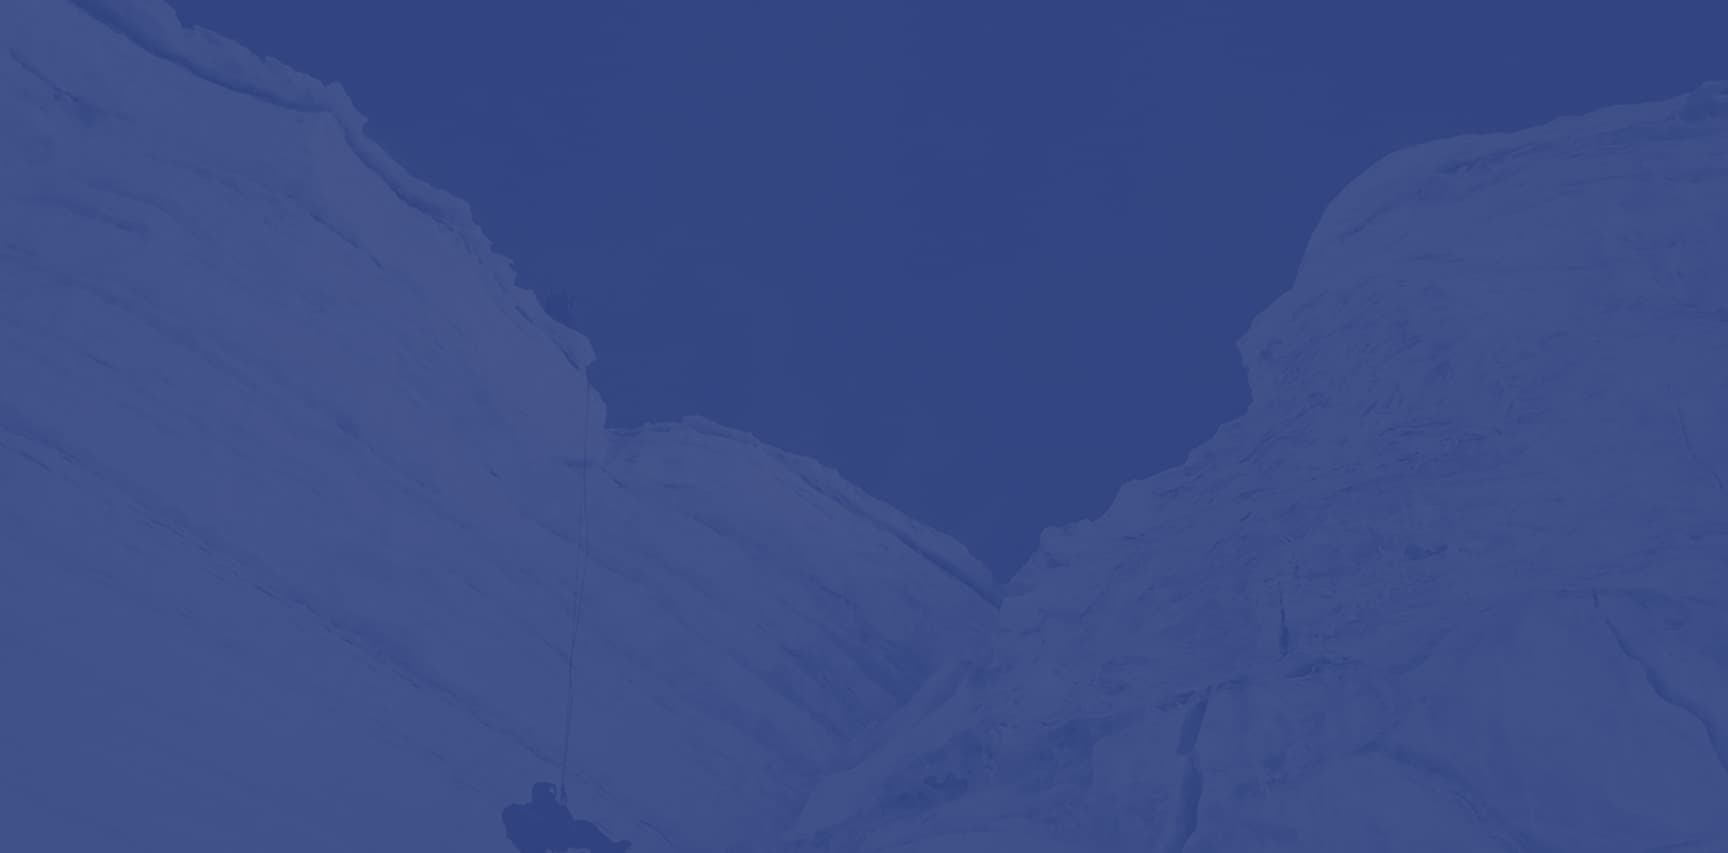
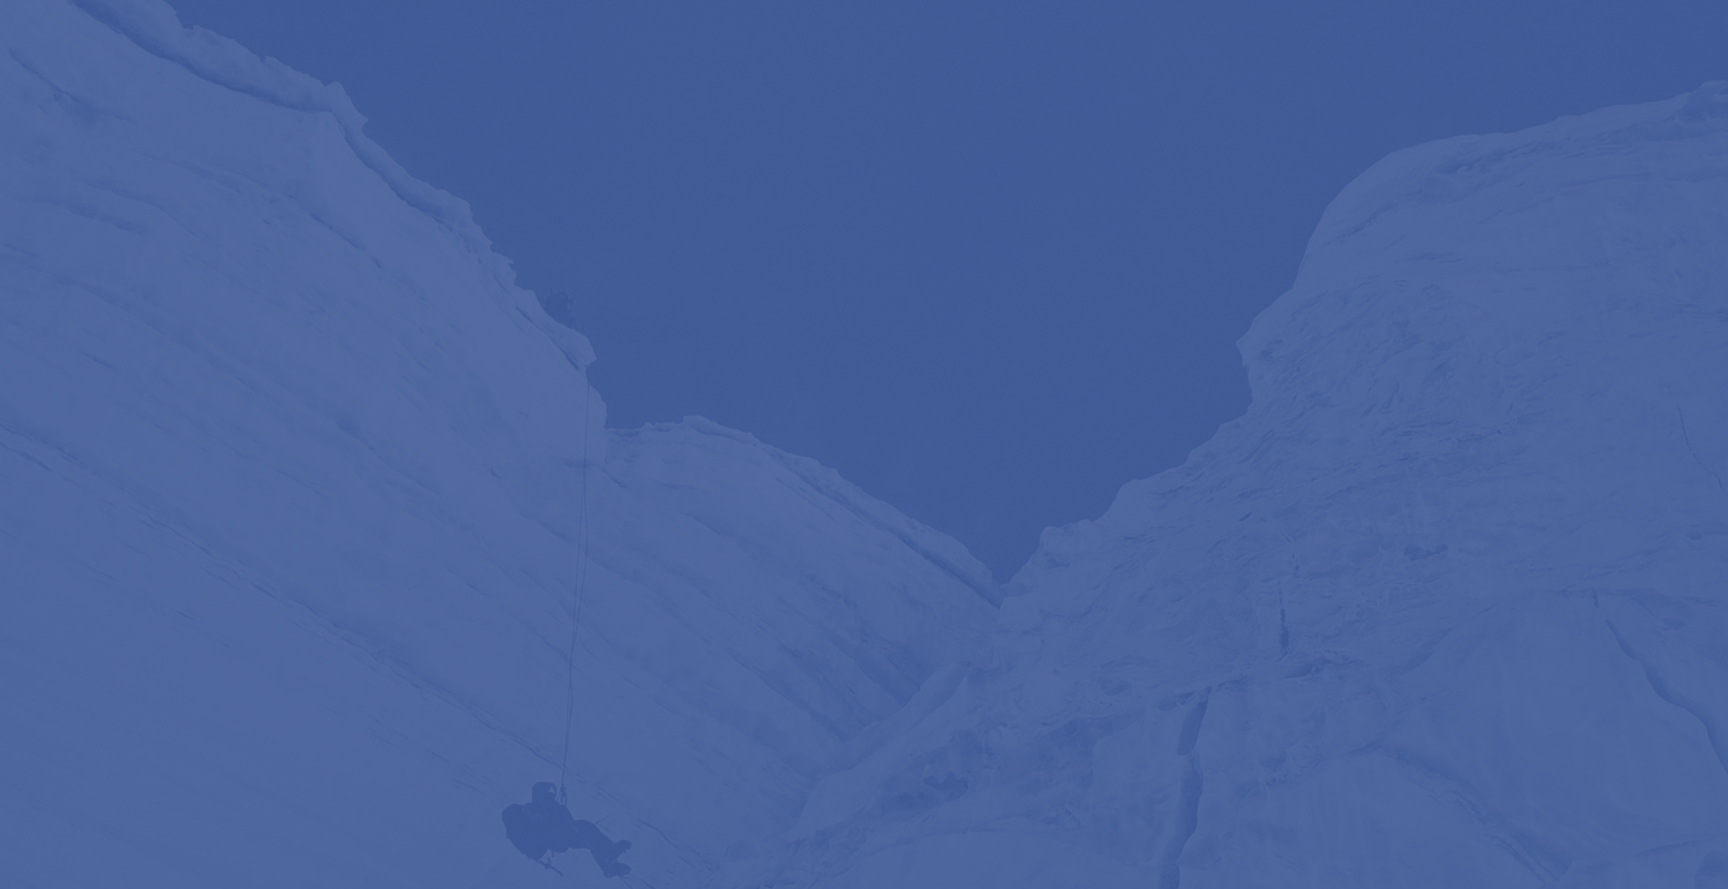
Update footer bg

diff --git a/src/includes/footer/footer.scss b/src/includes/footer/footer.scss
@@ -4,7 +4,7 @@
 	--footer-spacing-2: #{rem(32)};
 	--footer-hover: #{darken($white, 15%)};
 	position: relative;
-	background-color: var(--blue-dark);
+	background-color: var(--blue-light);
 	color: var(--white);
 	background-image: url('../images/footer/footer-bg.jpg');
 	background-size: cover;
